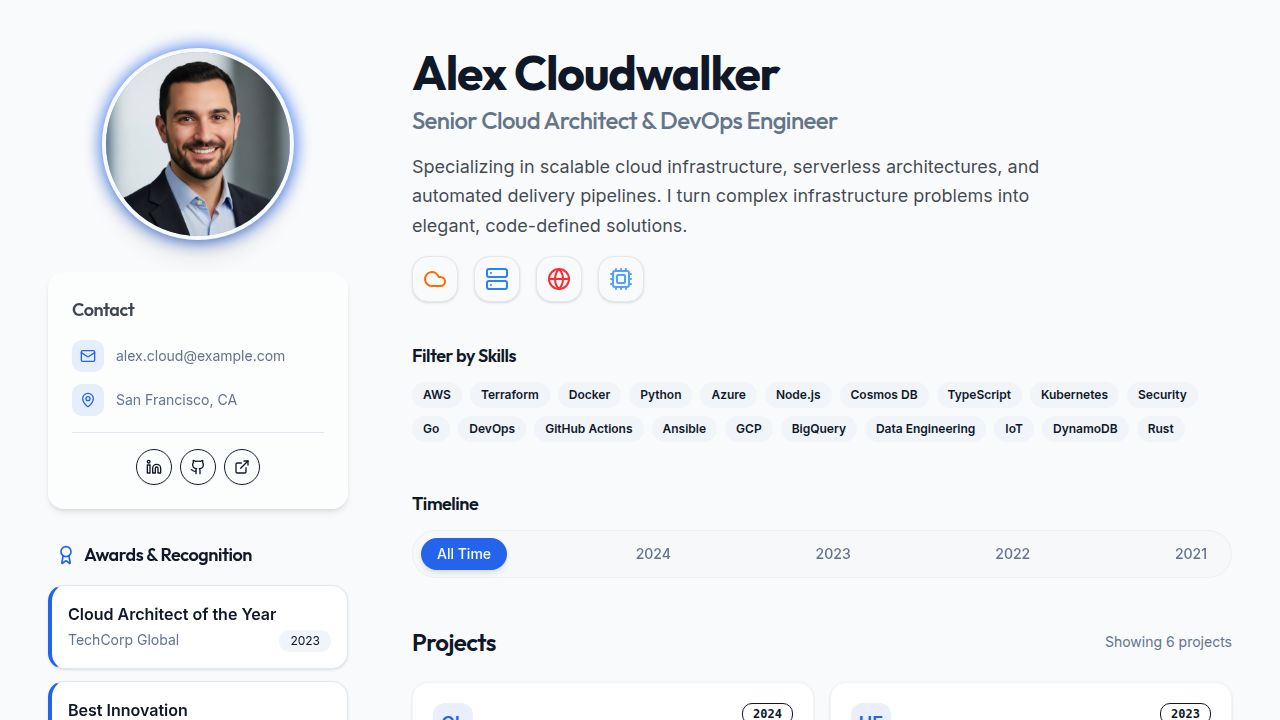
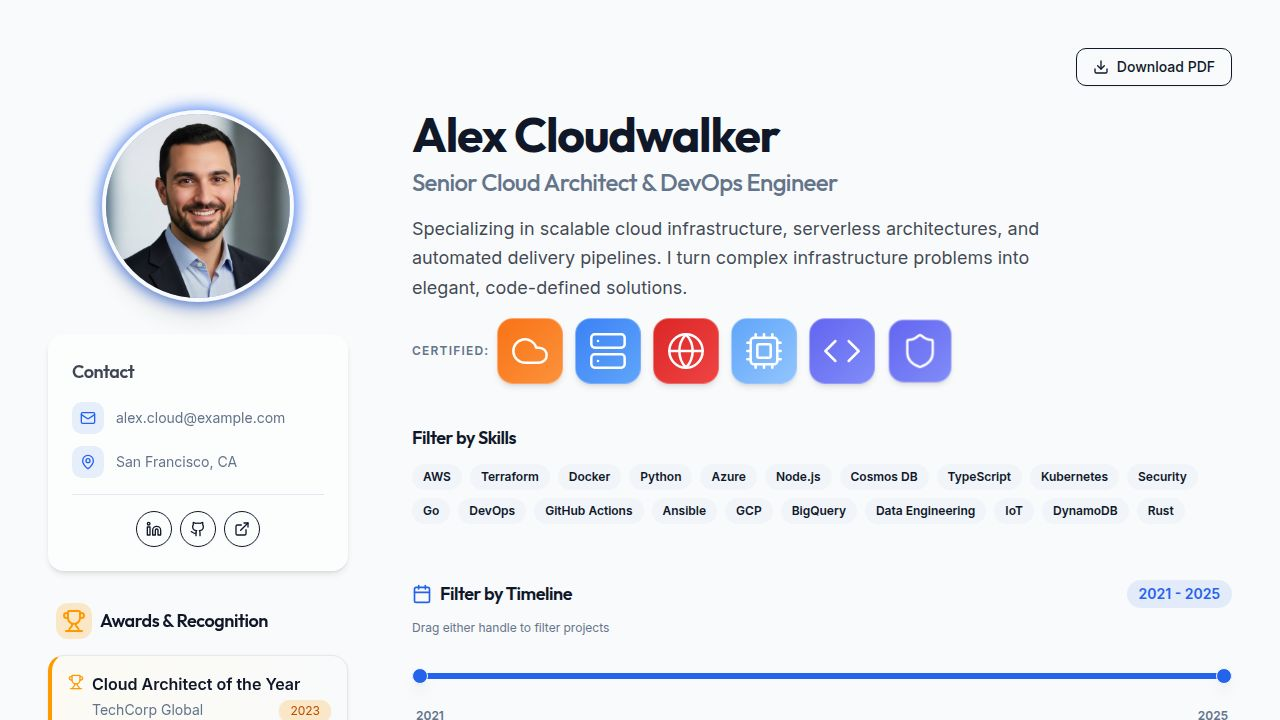
Add ability to download resume as PDF and make certifications more flexible
Add PDF download functionality using html2pdf.js and expand certifications array in data.ts. Update Home.tsx to include download button and new PDF export utility in lib/pdfExport.ts.

Replit-Commit-Author: Agent
Replit-Commit-Session-Id: ab5a1ac7-c7b9-49a5-af6f-05184adac628
Replit-Commit-Checkpoint-Type: full_checkpoint
Replit-Commit-Event-Id: 8caf4169-3c1b-4889-a16d-6b719c7368dd
Replit-Commit-Screenshot-Url: https://storage.googleapis.com/screenshot-production-us-central1/42a88691-9037-4738-98bb-7f1e8ecf7477/ab5a1ac7-c7b9-49a5-af6f-05184adac628/Q4q5B4Q
Replit-Helium-Checkpoint-Created: true

diff --git a/client/src/pages/Home.tsx b/client/src/pages/Home.tsx
@@ -5,7 +5,10 @@ import { TimelineFilter } from "@/components/resume/TimelineFilter";
 import { ProjectList } from "@/components/resume/ProjectList";
 import { Certifications } from "@/components/resume/Certifications";
 import { PROJECTS, SKILLS, YEARS } from "@/lib/data";
+import { downloadResumePDF } from "@/lib/pdfExport";
 import { motion } from "framer-motion";
+import { Download } from "lucide-react";
+import { Button } from "@/components/ui/button";
 
 export default function Home() {
   const [selectedSkills, setSelectedSkills] = useState<string[]>([]);
@@ -31,20 +34,34 @@ export default function Home() {
 
   return (
     <div className="min-h-screen bg-background text-foreground font-sans p-4 md:p-8 lg:p-12">
-      <div className="max-w-7xl mx-auto grid lg:grid-cols-[300px_1fr] gap-8 lg:gap-16">
-        
-        {/* Left Column - Fixed on desktop, scrollable on mobile */}
-        <div className="lg:sticky lg:top-12 lg:h-[calc(100vh-6rem)]">
-          <Sidebar />
+      <div className="max-w-7xl mx-auto">
+        {/* Download Button - Top Right */}
+        <div className="flex justify-end mb-6">
+          <Button 
+            onClick={downloadResumePDF}
+            variant="outline"
+            className="gap-2 hover:bg-primary hover:text-primary-foreground transition-colors"
+            data-testid="button-download-pdf"
+          >
+            <Download className="w-4 h-4" />
+            Download PDF
+          </Button>
         </div>
 
-        {/* Right Column - Main Content */}
-        <motion.main 
-          initial={{ opacity: 0, y: 20 }}
-          animate={{ opacity: 1, y: 0 }}
-          transition={{ duration: 0.5, delay: 0.2 }}
-          className="space-y-10"
-        >
+        <div id="resume-content" className="grid lg:grid-cols-[300px_1fr] gap-8 lg:gap-16">
+        
+          {/* Left Column - Fixed on desktop, scrollable on mobile */}
+          <div className="lg:sticky lg:top-12 lg:h-[calc(100vh-6rem)]">
+            <Sidebar />
+          </div>
+
+          {/* Right Column - Main Content */}
+          <motion.main 
+            initial={{ opacity: 0, y: 20 }}
+            animate={{ opacity: 1, y: 0 }}
+            transition={{ duration: 0.5, delay: 0.2 }}
+            className="space-y-10"
+          >
           {/* Section 1: Header */}
           <section className="space-y-4">
             <div>
@@ -94,6 +111,7 @@ export default function Home() {
           </section>
 
         </motion.main>
+        </div>
       </div>
     </div>
   );

diff --git a/client/src/lib/pdfExport.ts b/client/src/lib/pdfExport.ts
@@ -1,0 +1,31 @@
+import html2pdf from 'html2pdf.js';
+
+export const downloadResumePDF = () => {
+  const element = document.getElementById('resume-content');
+  
+  if (!element) {
+    console.error('Resume content not found');
+    return;
+  }
+
+  const opt = {
+    margin: [10, 10, 10, 10] as [number, number, number, number],
+    filename: 'resume.pdf',
+    image: { type: 'jpeg', quality: 0.98 },
+    html2canvas: { 
+      scale: 2,
+      useCORS: true,
+      letterRendering: true,
+      logging: false
+    },
+    jsPDF: { 
+      orientation: 'portrait', 
+      unit: 'mm', 
+      format: 'a4',
+      compress: true
+    },
+    pagebreak: { mode: ['avoid-all', 'css', 'legacy'] }
+  } as any;
+
+  html2pdf().set(opt).from(element).save();
+};

diff --git a/client/src/lib/data.ts b/client/src/lib/data.ts
@@ -114,7 +114,9 @@ export const CERTIFICATIONS = [
   { name: "AWS Solutions Architect Professional", icon: Cloud, color: "text-orange-500", link: "#" },
   { name: "Azure DevOps Engineer Expert", icon: Server, color: "text-blue-500", link: "#" },
   { name: "Google Professional Cloud Architect", icon: Globe, color: "text-red-500", link: "#" },
-  { name: "CKA: Certified Kubernetes Administrator", icon: Cpu, color: "text-blue-400", link: "#" }
+  { name: "CKA: Certified Kubernetes Administrator", icon: Cpu, color: "text-blue-400", link: "#" },
+  { name: "Terraform Associate", icon: Code, color: "text-indigo-500", link: "#" },
+  { name: "HashiCorp Certified", icon: Shield, color: "text-purple-500", link: "#" }
 ];
 
 export const AWARDS = [
